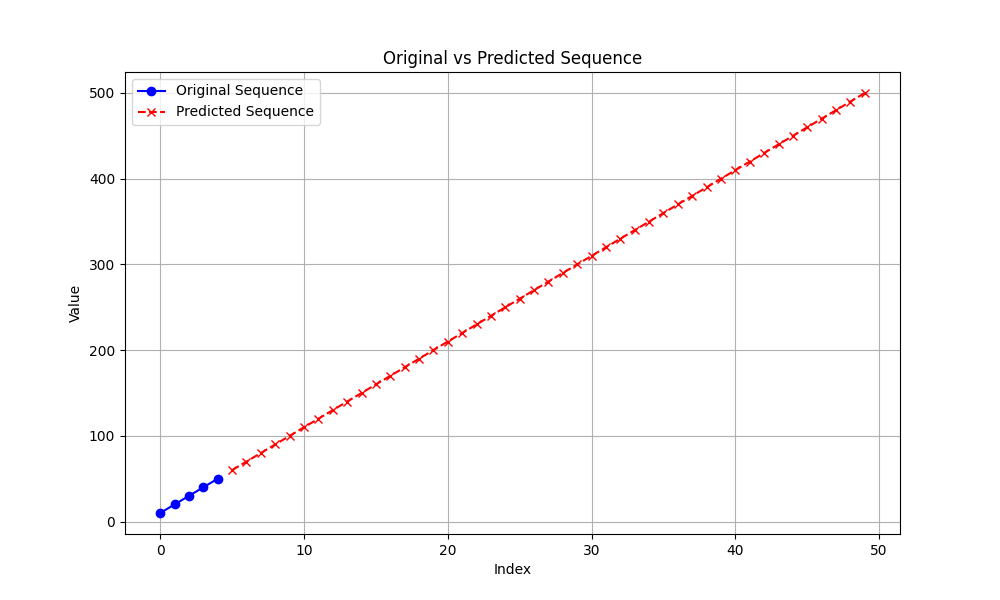
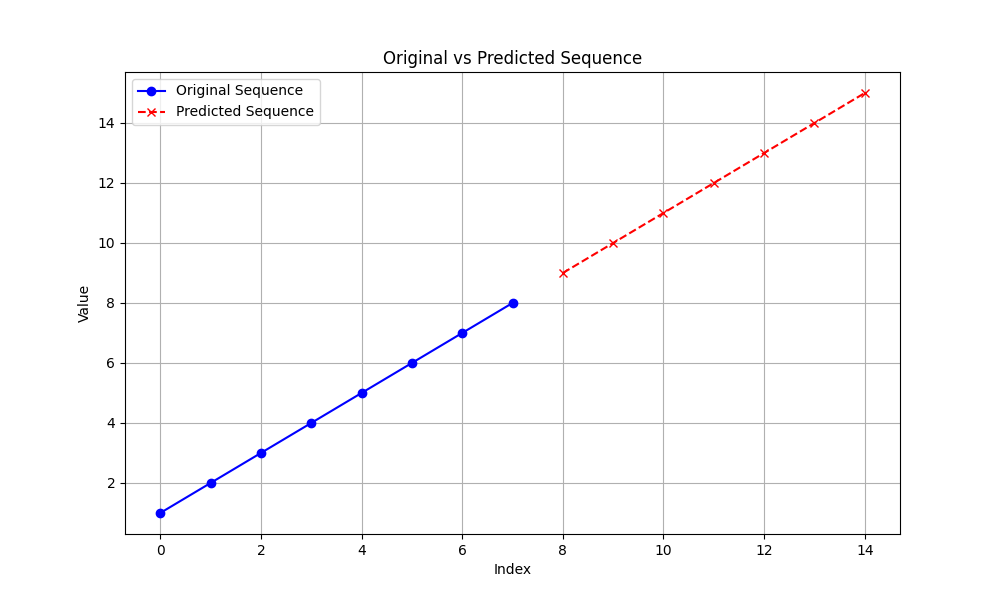
push

diff --git a/templates/index.html b/templates/index.html
@@ -4,36 +4,61 @@
     <meta charset="UTF-8">
     <meta name="viewport" content="width=device-width, initial-scale=1.0">
     <title>Sequence Predictor</title>
-    <link rel="stylesheet" href="{{ url_for('static', filename='style.css') }}">
+    <script src="https://cdn.tailwindcss.com"></script>
 </head>
-<body>
-    <div class="container">
-        <h2>Sequence Predictor</h2>
-        <form method="POST">
-            <div class="form-group">
-                <label for="sequence">Enter Sequence (comma-separated):</label>
-                <input type="text" id="sequence" name="sequence" required placeholder="e.g., 10, 20, 30, 40">
-            </div>
-            
-            <div class="form-group">
-                <label for="n_steps_out">Number of Predictions:</label>
-                <input type="number" id="n_steps_out" name="n_steps_out" min="1"  required>
-            </div>
-            
-            <button type="submit">Predict</button>
-        </form>
+<body class="bg-gray-100 text-gray-900 font-sans antialiased">
 
-        {% if predicted_sequence %}
-        <div class="results">
-            <h3>Input Sequence:</h3>
-            <p>{{ sequence }}</p>
-            <h3>Predicted Sequence:</h3>
-            <p>{{ predicted_sequence }}</p>
-            <div class="plot-container">
-                <img src="{{ url_for('static', filename='plot.png') }}" alt="Prediction Plot">
-            </div>
+    <div class="container mx-auto p-6">
+        <div class="max-w-3xl mx-auto bg-white p-8 rounded-lg shadow-lg">
+            <h2 class="text-3xl font-semibold text-center mb-6 text-blue-600">Sequence Predictor</h2>
+            
+            <form method="POST" class="space-y-6">
+                <!-- Input Sequence Field -->
+                <div class="form-group">
+                    <label for="sequence" class="block text-lg font-medium text-gray-700">Enter Sequence (comma-separated):</label>
+                    <input type="text" id="sequence" name="sequence" required class="w-full p-3 border border-gray-300 rounded-md shadow-sm focus:outline-none focus:ring-2 focus:ring-blue-600 focus:border-blue-600" placeholder="e.g., 10, 20, 30, 40">
+                </div>
+                
+                <!-- Number of Predictions Field -->
+                <div class="form-group">
+                    <label for="n_steps_out" class="block text-lg font-medium text-gray-700">Number of Predictions:</label>
+                    <input type="number" id="n_steps_out" name="n_steps_out" min="1" required class="w-full p-3 border border-gray-300 rounded-md shadow-sm focus:outline-none focus:ring-2 focus:ring-blue-600 focus:border-blue-600">
+                </div>
+                
+                <button type="submit" class="w-full bg-blue-600 text-white p-3 rounded-md hover:bg-blue-700 focus:outline-none focus:ring-2 focus:ring-blue-600">Predict</button>
+            </form>
+
+            {% if predicted_sequence %}
+                <div class="mt-8">
+                    <h3 class="text-xl font-semibold text-gray-800 mb-4">Results</h3>
+                    <div class="bg-gray-50 p-4 rounded-md shadow-sm mb-6">
+                        <h4 class="text-lg font-medium text-gray-700">Input Sequence:</h4>
+                        <p class="text-gray-600">{{ sequence }}</p>
+                    </div>
+
+                    <div class="bg-gray-50 p-4 rounded-md shadow-sm mb-6">
+                        <h4 class="text-lg font-medium text-gray-700">Predicted Sequence:</h4>
+                        <p class="text-gray-600">{{ predicted_sequence }}</p>
+                    </div>
+
+                    <div class="bg-gray-50 p-4 rounded-md shadow-sm mb-6">
+                        <h4 class="text-lg font-medium text-gray-700 mb-2">Plot:</h4>
+                        <div class="mb-4">
+                            <!-- Plotly Plot Embed -->
+                            <div class="w-full lg:h-96 md:h-80 h-64">
+                                <div>{{ plot_div|safe }}</div>
+                            </div>
+                        </div>
+
+                        <!-- Download Button -->
+                        <a href="/download" class="inline-block bg-green-600 text-white px-4 py-2 rounded-md hover:bg-green-700 focus:outline-none focus:ring-2 focus:ring-green-600">
+                            Download Plot
+                        </a>
+                    </div>
+                </div>
+            {% endif %}
         </div>
-        {% endif %}
     </div>
+    
 </body>
 </html>

diff --git a/app.py b/app.py
@@ -1,15 +1,20 @@
 from flask import Flask, render_template, request
-import matplotlib
-matplotlib.use('Agg')
-import matplotlib.pyplot as plt
 import numpy as np
 from sklearn.linear_model import LinearRegression
-from io import BytesIO
+from plotly import graph_objects as go
+import plotly.io as pio
 import os
+import base64
+
+
 
 app = Flask(__name__)
 
 # Function to prepare data
+@app.template_filter('base64')
+def base64_filter(data):
+    return base64.b64encode(data.encode('utf-8')).decode('utf-8')
+
 def prepare_data(sequence, n_steps):
     X, y = [], []
     for i in range(len(sequence) - n_steps):
@@ -42,6 +47,7 @@ def index():
     predicted_sequence = None
     input_sequence_str = ""
     sequence = []
+    plot_div = None
     
     if request.method == "POST":
         # Get user input from form
@@ -59,22 +65,39 @@ def index():
         input_sequence = sequence[-n_steps_in:]
         predicted_sequence = predict_sequence(model, input_sequence, n_steps_out)
         
-        # Generate the plot
-        plt.figure(figsize=(10, 6))
-        plt.plot(range(len(sequence)), sequence, label="Original Sequence", marker='o', linestyle='-', color='blue')
-        plt.plot(range(len(sequence), len(sequence) + n_steps_out), predicted_sequence, label="Predicted Sequence", marker='x', linestyle='--', color='red')
-        plt.xlabel("Index")
-        plt.ylabel("Value")
-        plt.title("Original vs Predicted Sequence")
-        plt.legend()
-        plt.grid(True)
-        
-        # Save the plot as a static image
-        plot_path = os.path.join("static", "plot.png")
-        plt.savefig(plot_path)
-        plt.close()
+        # Create a Plotly graph
+        fig = go.Figure()
 
-    return render_template("index.html", sequence=input_sequence_str, predicted_sequence=predicted_sequence)
+        # Original sequence plot
+        fig.add_trace(go.Scatter(
+            x=list(range(len(sequence))),
+            y=sequence,
+            mode='lines+markers',
+            name='Original Sequence',
+            line=dict(color='blue')
+        ))
+
+        # Predicted sequence plot
+        fig.add_trace(go.Scatter(
+            x=list(range(len(sequence), len(sequence) + n_steps_out)),
+            y=predicted_sequence,
+            mode='lines+markers',
+            name='Predicted Sequence',
+            line=dict(color='red', dash='dash')
+        ))
+
+        # Add labels and title
+        fig.update_layout(
+            title="Original vs Predicted Sequence",
+            xaxis_title="Index",
+            yaxis_title="Value",
+            showlegend=True
+        )
+
+        # Generate HTML div for Plotly chart
+        plot_div = pio.to_html(fig, full_html=False)
+
+    return render_template("index.html", sequence=input_sequence_str, predicted_sequence=predicted_sequence, plot_div=plot_div)
 
 if __name__ == "__main__":
     app.run(debug=True)
